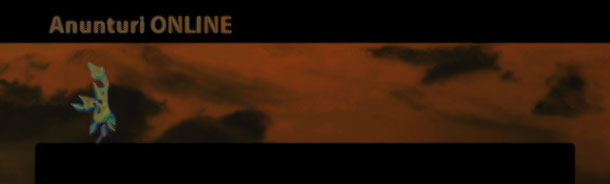
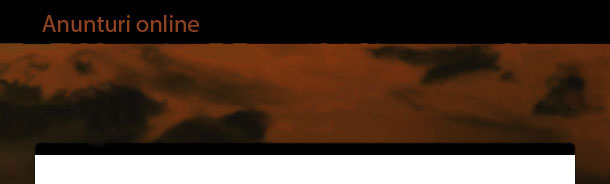
Email template fixes.

diff --git a/css/general.css b/css/general.css
@@ -1,10 +1,4 @@
 /* ---------------------------------
-fonts
---------------------------------- */
-@import url(http://fonts.googleapis.com/css?family=Montserrat:400,700);
-
-
-/* ---------------------------------
 widths
 --------------------------------- */
 
